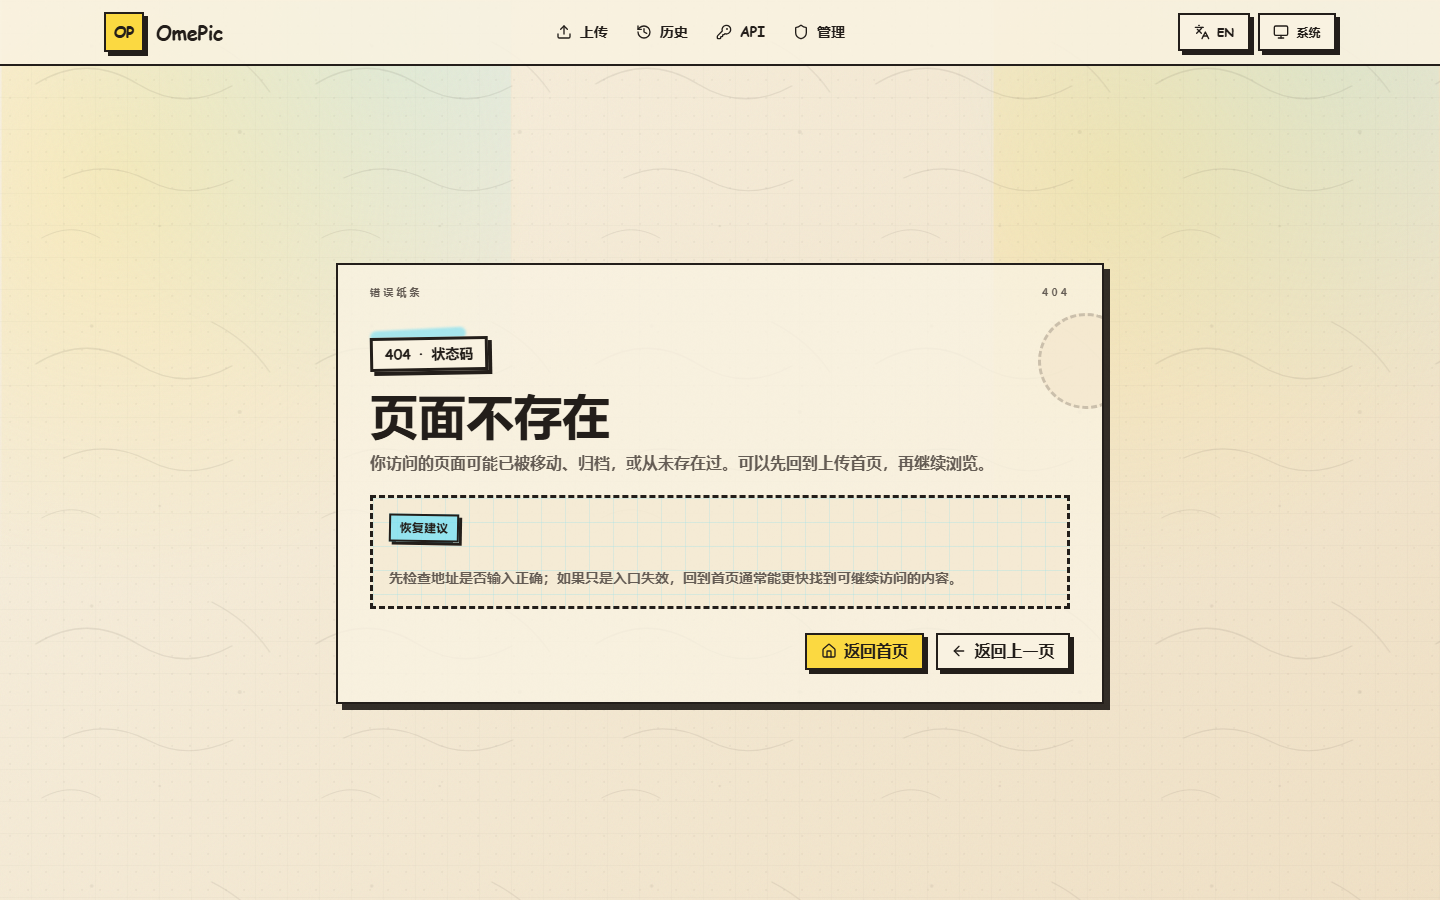
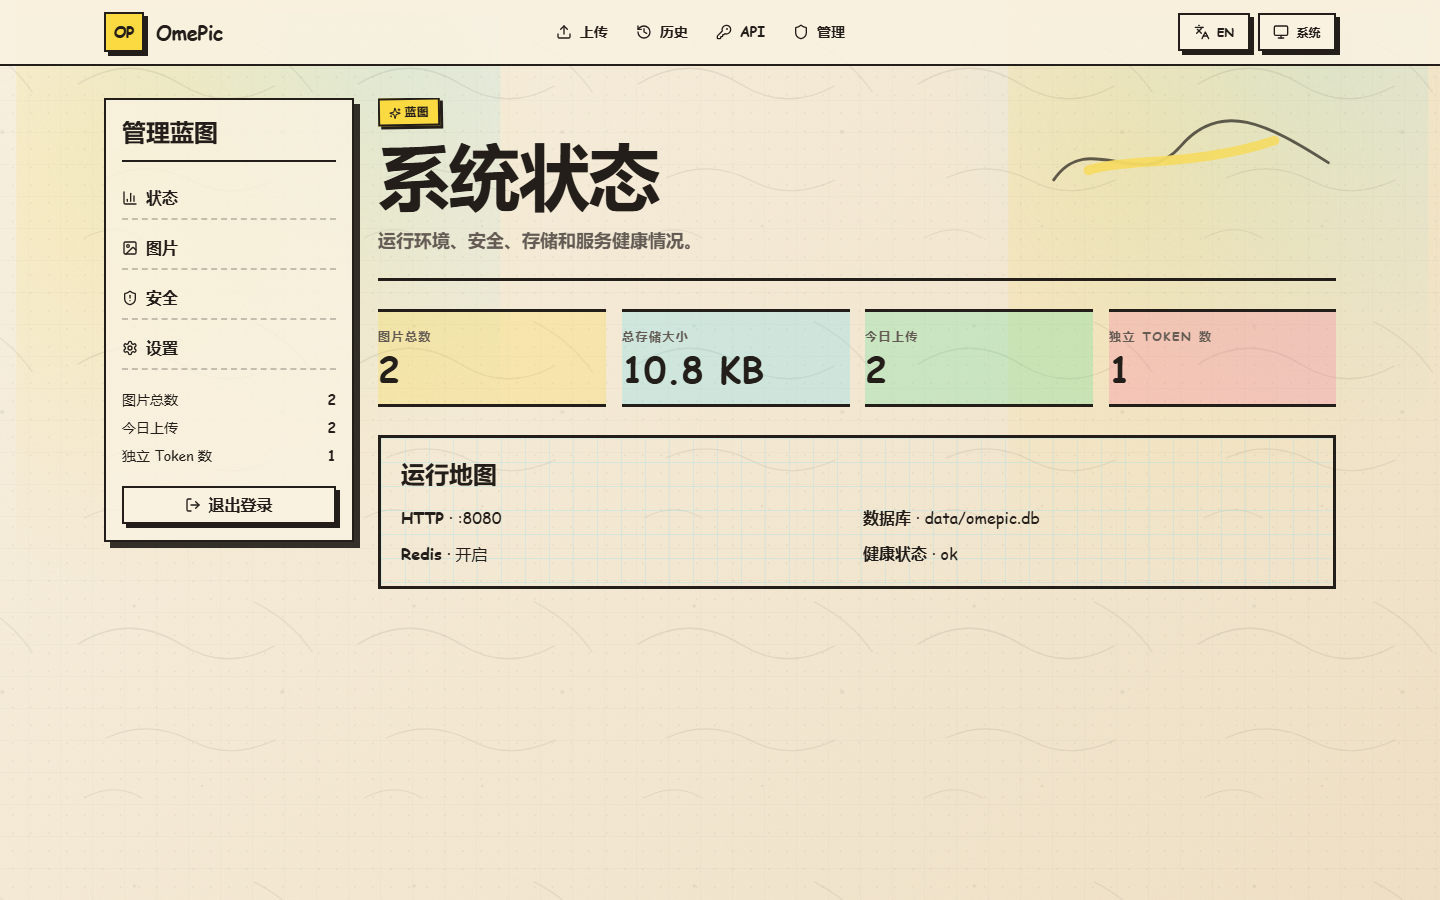
docs: fix admin screenshots path

Changed region(s): [[0.0625, 0.0933, 0.9375, 0.8089], [0.75, 0.1244, 0.9062, 0.2178], [0.0, 0.1556, 0.0312, 0.2178]]

diff --git a/docs/screenshot.py b/docs/screenshot.py
@@ -22,17 +22,15 @@ async def main():
 
         # 2. Admin login page
         print("[2/4] Capturing admin login...")
-        await page.goto(f"{BASE_URL}/admin", wait_until="networkidle")
+        await page.goto(f"{BASE_URL}/admin/dashboard", wait_until="networkidle")
         await page.wait_for_timeout(1000)
         await page.screenshot(path=f"{OUTPUT_DIR}/admin-login.png", full_page=False)
 
         # 3. Login and go to admin dashboard
         print("[3/4] Logging in to admin...")
-        # Try to find and fill the password input
         pwd_input = page.locator('input[type="password"]')
         if await pwd_input.count() > 0:
             await pwd_input.fill("admin123")
-            # Find submit button
             submit_btn = page.locator('button[type="submit"]')
             if await submit_btn.count() > 0:
                 await submit_btn.click()
@@ -40,9 +38,8 @@ async def main():
                 await pwd_input.press("Enter")
             await page.wait_for_timeout(2000)
 
-        # 4. Admin dashboard / images page
+        # 4. Admin dashboard (after login, still /admin/dashboard)
         print("[4/4] Capturing admin dashboard...")
-        await page.goto(f"{BASE_URL}/admin", wait_until="networkidle")
         await page.wait_for_timeout(1000)
         await page.screenshot(path=f"{OUTPUT_DIR}/admin-dashboard.png", full_page=False)
 
